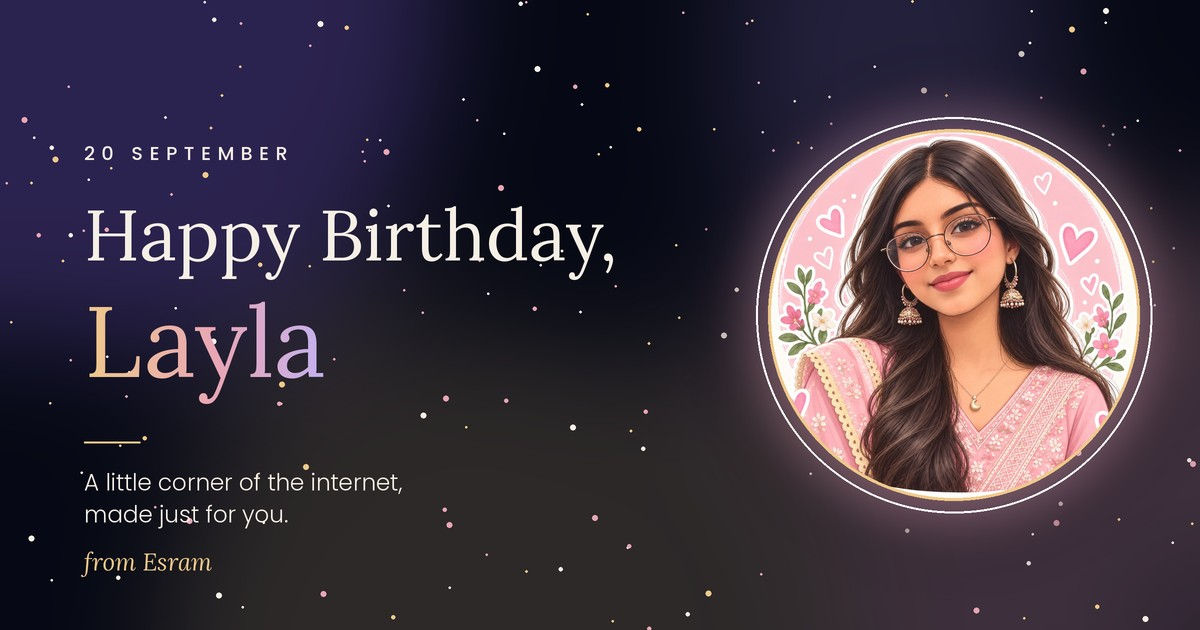
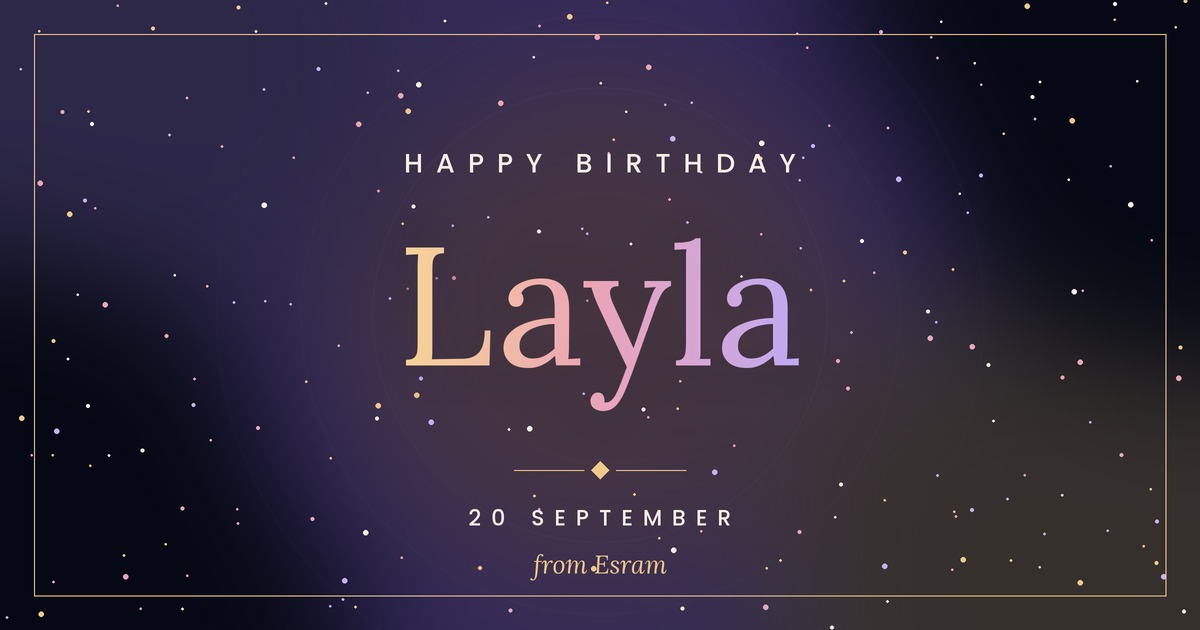
Add files via upload

diff --git a/index.html b/index.html
@@ -558,7 +558,7 @@
 
   /* ---------- sound toggle ---------- */
   .sound-btn{
-    position:fixed;z-index:35;
+    position:fixed;z-index:45;   /* above the gate (40) and intro (39), below the game (50) */
     top:calc(env(safe-area-inset-top,0px) + 14px);right:14px;
     width:42px;height:42px;border-radius:50%;display:grid;place-items:center;
     border:1px solid var(--veil-line);background:rgba(10,15,34,.55);
@@ -597,7 +597,7 @@
   }
   @media (prefers-reduced-motion:reduce){ .gate-ambient{display:none} }
   .sound-tip{
-    position:fixed;z-index:36;
+    position:fixed;z-index:46;
     top:calc(env(safe-area-inset-top,0px) + 66px);right:14px;
     max-width:min(16rem,calc(100vw - 28px));
     padding:10px 14px;border-radius:14px;
@@ -1177,14 +1177,21 @@
       if (!m) return 440;
       return 440 * Math.pow(2, (NOTES[m[1]] + (parseInt(m[2], 10) + 1) * 12 - 69) / 12);
     }
-    var CHORDS = [
-      ["Ab2","Eb3","C4","G4"],
-      ["F2","C3","Ab3","Eb4"],
-      ["Db2","Ab2","F3","C4"],
-      ["Eb2","Bb2","G3","C4"]
+    /* A slow lullaby in A-flat major: I - vi - IV - V, with a music-box
+       melody over a warm pad and a soft root underneath. */
+    var BEAT = 0.92;
+    var BAR = BEAT * 8;
+    var SONG = [
+      { pad:["Eb3","Ab3","C4","G4"],  bass:"Ab2",
+        mel:[[0,"Eb5"],[1.5,"C5"],[3,"Eb5"],[4.5,"G5"],[6.5,"Ab5"]] },
+      { pad:["C3","F3","Ab3","Eb4"],  bass:"F2",
+        mel:[[0,"F5"],[1.5,"Eb5"],[3,"C5"],[5,"Ab4"]] },
+      { pad:["Ab2","Db3","F3","C4"],  bass:"Db2",
+        mel:[[0,"Ab4"],[1.5,"C5"],[3,"F5"],[4.5,"Eb5"],[6.5,"C5"]] },
+      { pad:["Bb2","Eb3","G3","C4"],  bass:"Eb2",
+        mel:[[0,"Bb4"],[1.5,"C5"],[3,"Bb4"],[4.5,"G4"],[6,"Eb5"]] }
     ];
-    var SPARKLE = ["Eb4","F4","G4","Ab4","Bb4","C5","Eb5","F5","Ab5"];
-    var BAR = 8.4;
+    var SHIMMER = ["Eb6","Ab5","C6","Bb5"];
 
     var ctx = null, master = null, dry = null, wet = null, timer = null;
     var idx = 0, on = false, ready = false;
@@ -1231,19 +1238,63 @@
       o.start(t); o.stop(t + 3);
     }
 
+    // music box: a struck sine with a quiet upper partial, decaying gently
+    function mbox(freq, t, vol){
+      var v = vol || 0.06;
+      var o1 = ctx.createOscillator(), o2 = ctx.createOscillator();
+      o1.type = "sine"; o1.frequency.value = freq;
+      o2.type = "sine"; o2.frequency.value = freq * 2.004;
+      var g1 = ctx.createGain(), g2 = ctx.createGain();
+      g1.gain.setValueAtTime(0.0001, t);
+      g1.gain.linearRampToValueAtTime(v, t + .012);
+      g1.gain.exponentialRampToValueAtTime(0.0001, t + 2.4);
+      g2.gain.setValueAtTime(0.0001, t);
+      g2.gain.linearRampToValueAtTime(v * .26, t + .008);
+      g2.gain.exponentialRampToValueAtTime(0.0001, t + 1.1);
+      o1.connect(g1); o2.connect(g2);
+      g1.connect(dry); g1.connect(wet);
+      g2.connect(dry); g2.connect(wet);
+      o1.start(t); o2.start(t);
+      o1.stop(t + 2.5); o2.stop(t + 1.2);
+    }
+
+    // soft root note under the chord
+    function bassNote(freq, t, dur){
+      var o = ctx.createOscillator();
+      o.type = "sine"; o.frequency.value = freq;
+      var lp = ctx.createBiquadFilter();
+      lp.type = "lowpass"; lp.frequency.value = 320;
+      var g = ctx.createGain();
+      g.gain.setValueAtTime(0.0001, t);
+      g.gain.linearRampToValueAtTime(0.055, t + .9);
+      g.gain.linearRampToValueAtTime(0.038, t + dur * .75);
+      g.gain.linearRampToValueAtTime(0.0001, t + dur);
+      o.connect(lp); lp.connect(g); g.connect(dry);
+      o.start(t); o.stop(t + dur + .2);
+    }
+
     function bar(){
       if (!ctx) return;
       var t = ctx.currentTime + .05;
-      var chord = CHORDS[idx % CHORDS.length];
-      for (var i = 0; i < chord.length; i++) pad(nf(chord[i]), t, BAR);
-      var beats = [1.1, 2.9, 4.6, 6.3, 7.4];
-      for (var b = 0; b < beats.length; b++){
-        if (Math.random() < .28) continue;
-        var n = SPARKLE[(Math.random() * SPARKLE.length) | 0];
-        chime(nf(n), t + beats[b], 0.034 + Math.random() * 0.024);
+      var step = SONG[idx % SONG.length];
+
+      for (var i = 0; i < step.pad.length; i++) pad(nf(step.pad[i]), t, BAR);
+      bassNote(nf(step.bass), t, BAR);
+
+      for (var m = 0; m < step.mel.length; m++){
+        var when = t + step.mel[m][0] * BEAT;
+        var vol = 0.062 - m * 0.004 + Math.random() * 0.008;   // slight human unevenness
+        mbox(nf(step.mel[m][1]), when + (Math.random() - .5) * .02, vol);
       }
+
+      // an occasional high shimmer, never on the downbeat
+      if (Math.random() < .55){
+        var s = SHIMMER[(Math.random() * SHIMMER.length) | 0];
+        chime(nf(s), t + (4 + Math.random() * 3) * BEAT, 0.022 + Math.random() * 0.014);
+      }
+
       idx++;
-      timer = setTimeout(bar, BAR * 1000 - 220);
+      timer = setTimeout(bar, BAR * 1000 - 200);
     }
 
     function boot(){
